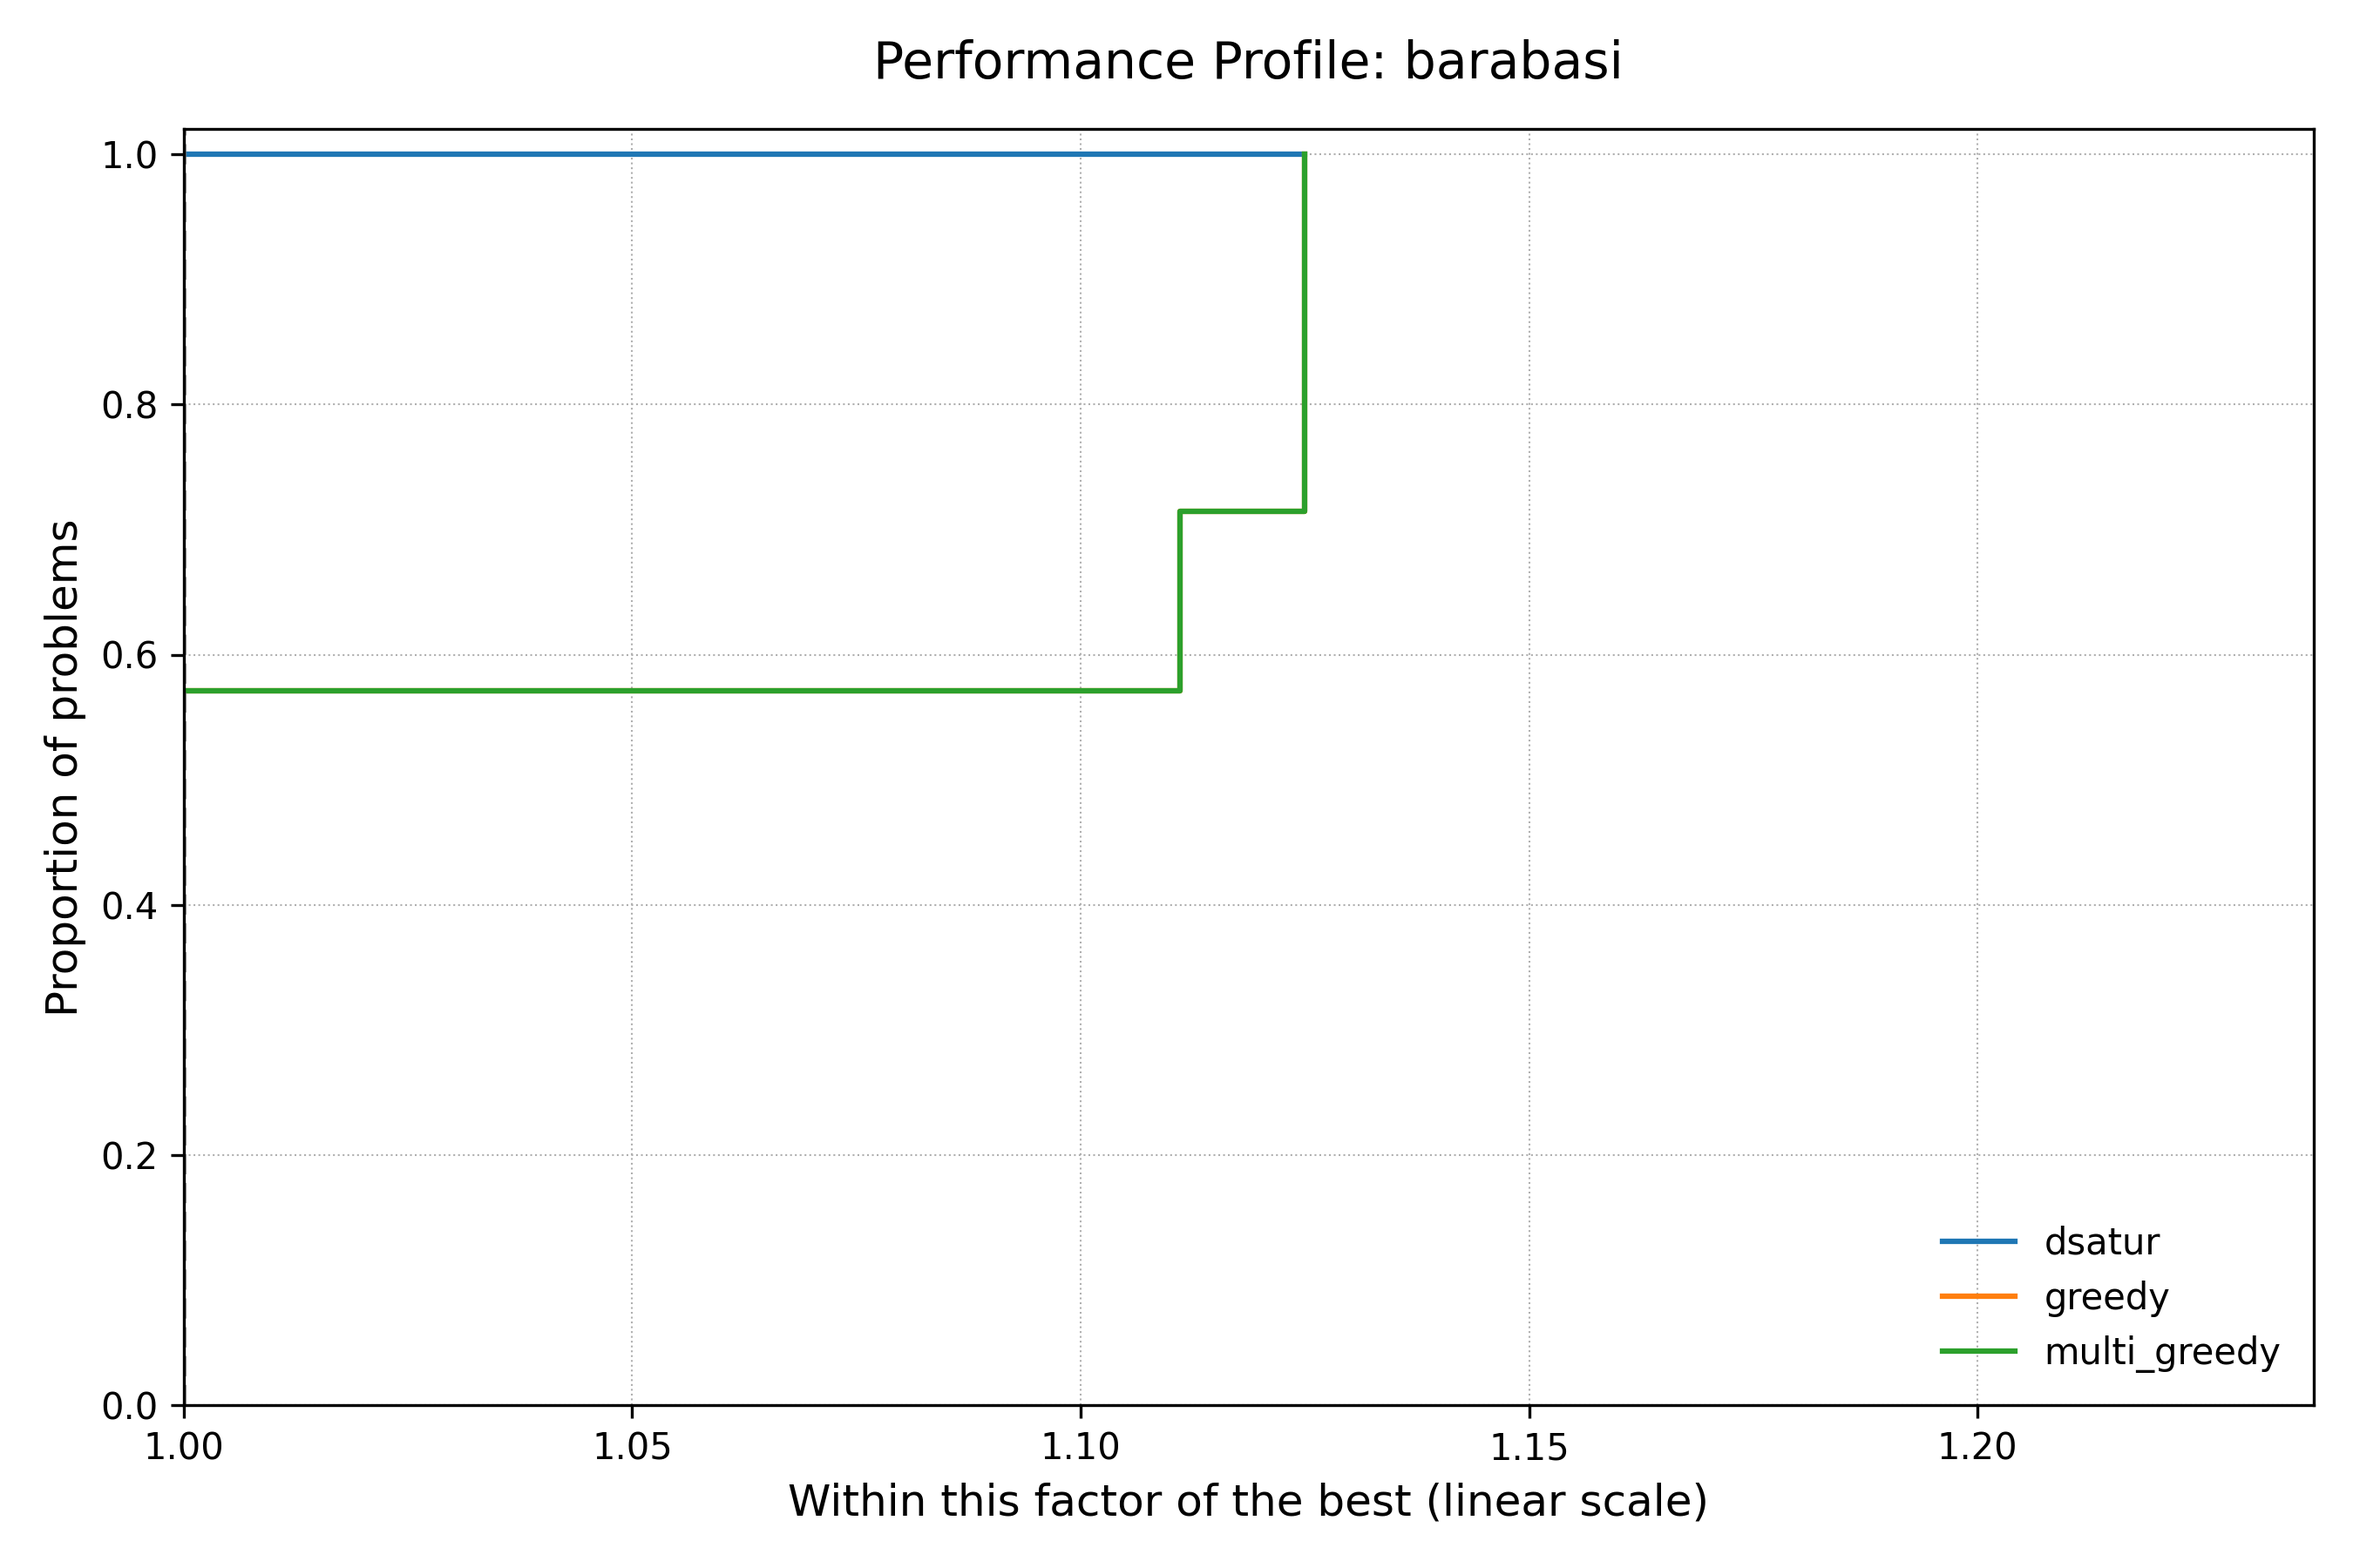
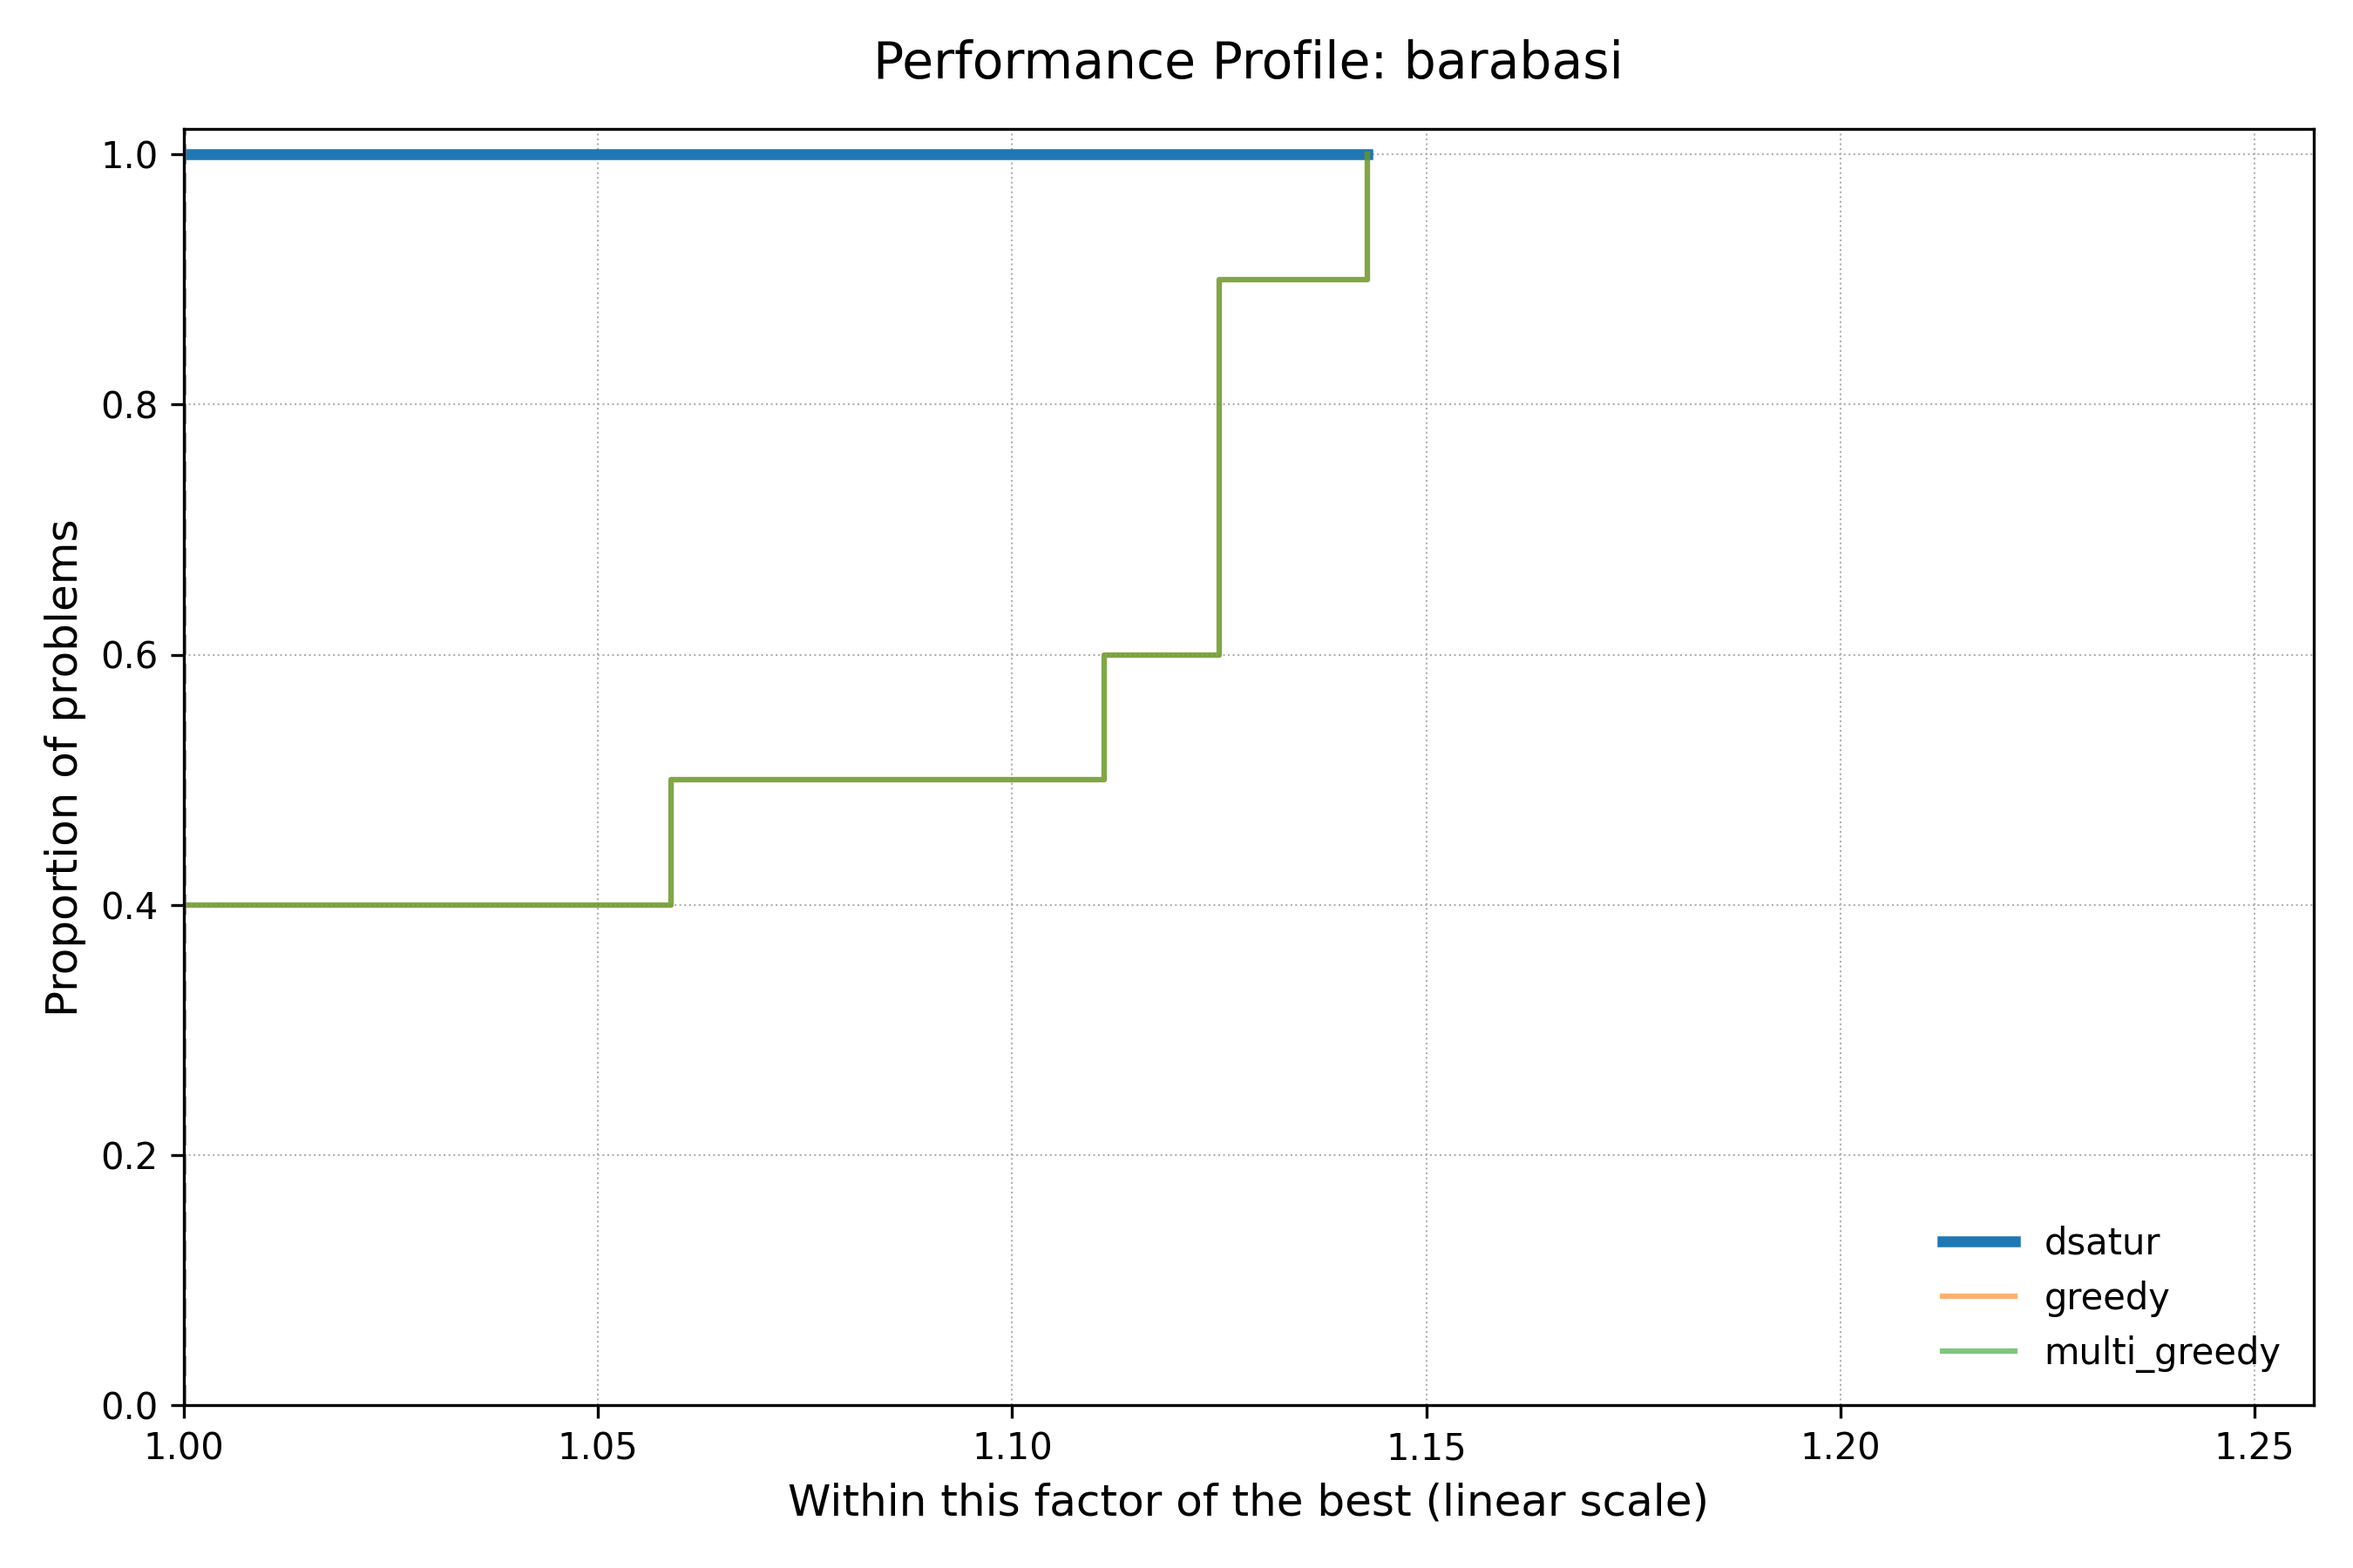
add report

diff --git a/sheets/05_graph_coloring/heuristics/benchmarkingheuristics.py b/sheets/05_graph_coloring/heuristics/benchmarkingheuristics.py
@@ -45,22 +45,23 @@ class Benchmarking_Heuristics:
                 metric_column = "metric",
                 direction = "min",          # smaller number of colors is better upper bound
                 comparison = "relative",    # ratio to best-known solution
-                highlight_best = False,      # bold dominant heuristic
+                highlight_best = True,      # bold dominant heuristic
                 title = (f"Performance Profile: {class_name}")
             )
 
             plt.savefig(f"benchmarking_heuristics_{class_name}.png", dpi=300)
+            plt.close()
 
     @classmethod
     def plot_all_instances(cls):
         data_rows = []
-        for i, (name, G) in enumerate(Instances.generate_test_instances()):
-            instance_id = name
-            for name, f in cls.heuristics.items():
+        for i, (instance_name, G) in enumerate(Instances.generate_test_instances()):
+            instance_id = instance_name
+            for heuristic_name, f in cls.heuristics.items():
                 coloring = f(G)
                 data_rows.append({
                     "instance": instance_id,
-                    "strategy": name,
+                    "strategy": heuristic_name,
                     "metric": Heuristics.num_colors(coloring)
                 })
         
@@ -75,13 +76,15 @@ class Benchmarking_Heuristics:
                 metric_column = "metric",
                 direction = "min",          # smaller number of colors is better upper bound
                 comparison = "relative",    # ratio to best-known solution
-                highlight_best = False,      # bold dominant heuristic
+                highlight_best = True,      # bold dominant heuristic
                 title = (f"Performance Profile: all instances")
             )
 
         plt.savefig(f"benchmarking_heuristics_all_instances.png", dpi=300)
+        plt.close()
 
 # generate the plots
 if __name__ == "__main__":
+    print("RUN BENCHMARKING OF HEURISTICS")
     Benchmarking_Heuristics.plot_all_instances()
     Benchmarking_Heuristics.plot_per_graph_class()

diff --git a/sheets/05_graph_coloring/instances/instances.py b/sheets/05_graph_coloring/instances/instances.py
@@ -34,7 +34,7 @@ class Instances:
         instances.append(("erdos30-2-1", nx.erdos_renyi_graph(30, 2, seed = 1)))
         instances.append(("erdos55-0.9-42", nx.erdos_renyi_graph(55, 0.9, seed = 42)))
         instances.append(("erdos100-2-42", nx.erdos_renyi_graph(100, 2, seed = 42)))
-        #instances.append(("erdos150-5-42", nx.erdos_renyi_graph(150, 5, seed = 42)))
+        instances.append(("erdos150-5-42", nx.erdos_renyi_graph(150, 5, seed = 42)))
 
         # barabasi_albert_graph (random) --> sequentielly adding of nodes with degree m
         # --> nodes with high degree --> DSATUR much better
@@ -45,9 +45,9 @@ class Instances:
         instances.append(("barabasi100-10-13", nx.barabasi_albert_graph(100, 10, seed = 13)))
         instances.append(("barabasi100-10-20", nx.barabasi_albert_graph(100, 10, seed = 20)))
         instances.append(("barabasi100-10-42", nx.barabasi_albert_graph(100, 10, seed = 42)))
-        #instances.append(("barabasi100-10-55", nx.barabasi_albert_graph(100, 10, seed = 55)))
-        #instances.append(("barabasi100-25-55", nx.barabasi_albert_graph(100, 25, seed = 55)))
-        #instances.append(("barabasi150-33-66", nx.barabasi_albert_graph(150, 33, seed = 66)))
+        instances.append(("barabasi100-10-55", nx.barabasi_albert_graph(100, 10, seed = 55)))
+        instances.append(("barabasi100-25-55", nx.barabasi_albert_graph(100, 25, seed = 55)))
+        instances.append(("barabasi150-33-66", nx.barabasi_albert_graph(150, 33, seed = 66)))
 
         # kneser graph (classic, n > k > 0) --> highly symmetric, challenging for greedy
         instances.append(("petersenGraph", nx.kneser_graph(5, 2)))
@@ -61,7 +61,7 @@ class Instances:
         instances.append(("kneser15-2", nx.kneser_graph(15, 2)))
         instances.append(("kneser15-4", nx.kneser_graph(15, 4)))
         # boss level
-        #instances.append(("kneser15-5", nx.kneser_graph(15, 5)))
+        instances.append(("kneser15-5", nx.kneser_graph(15, 5)))
 
         return instances
 
